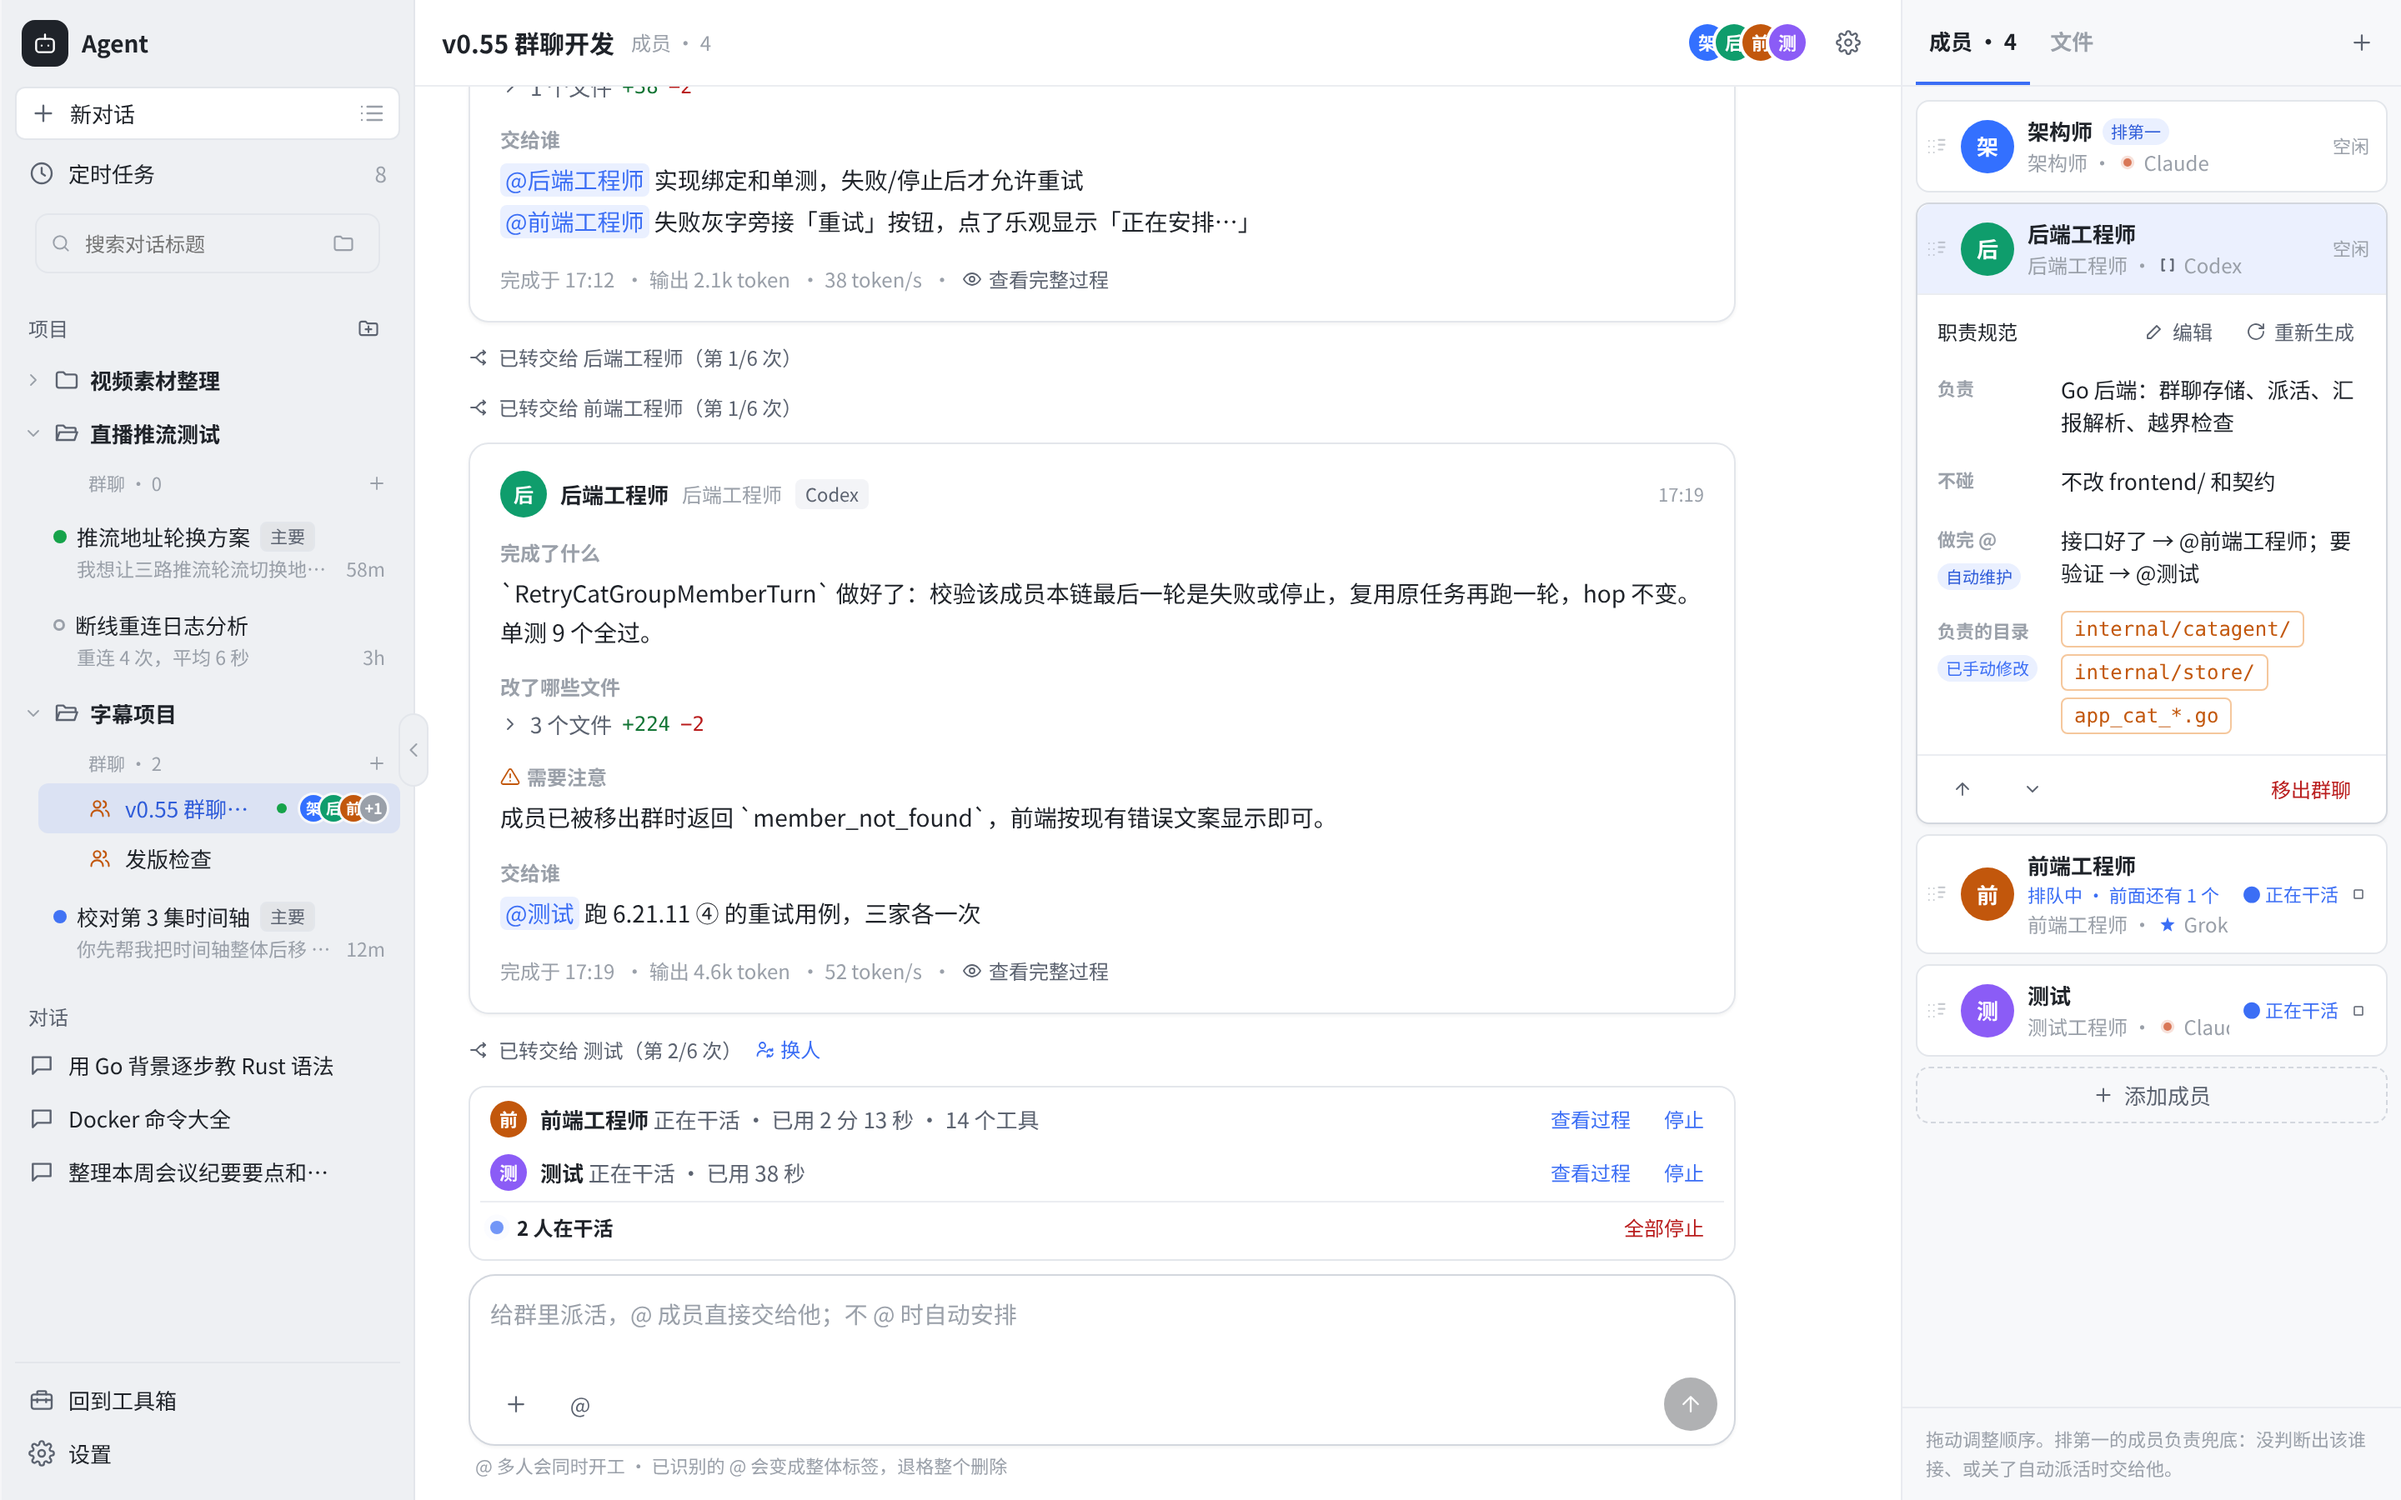
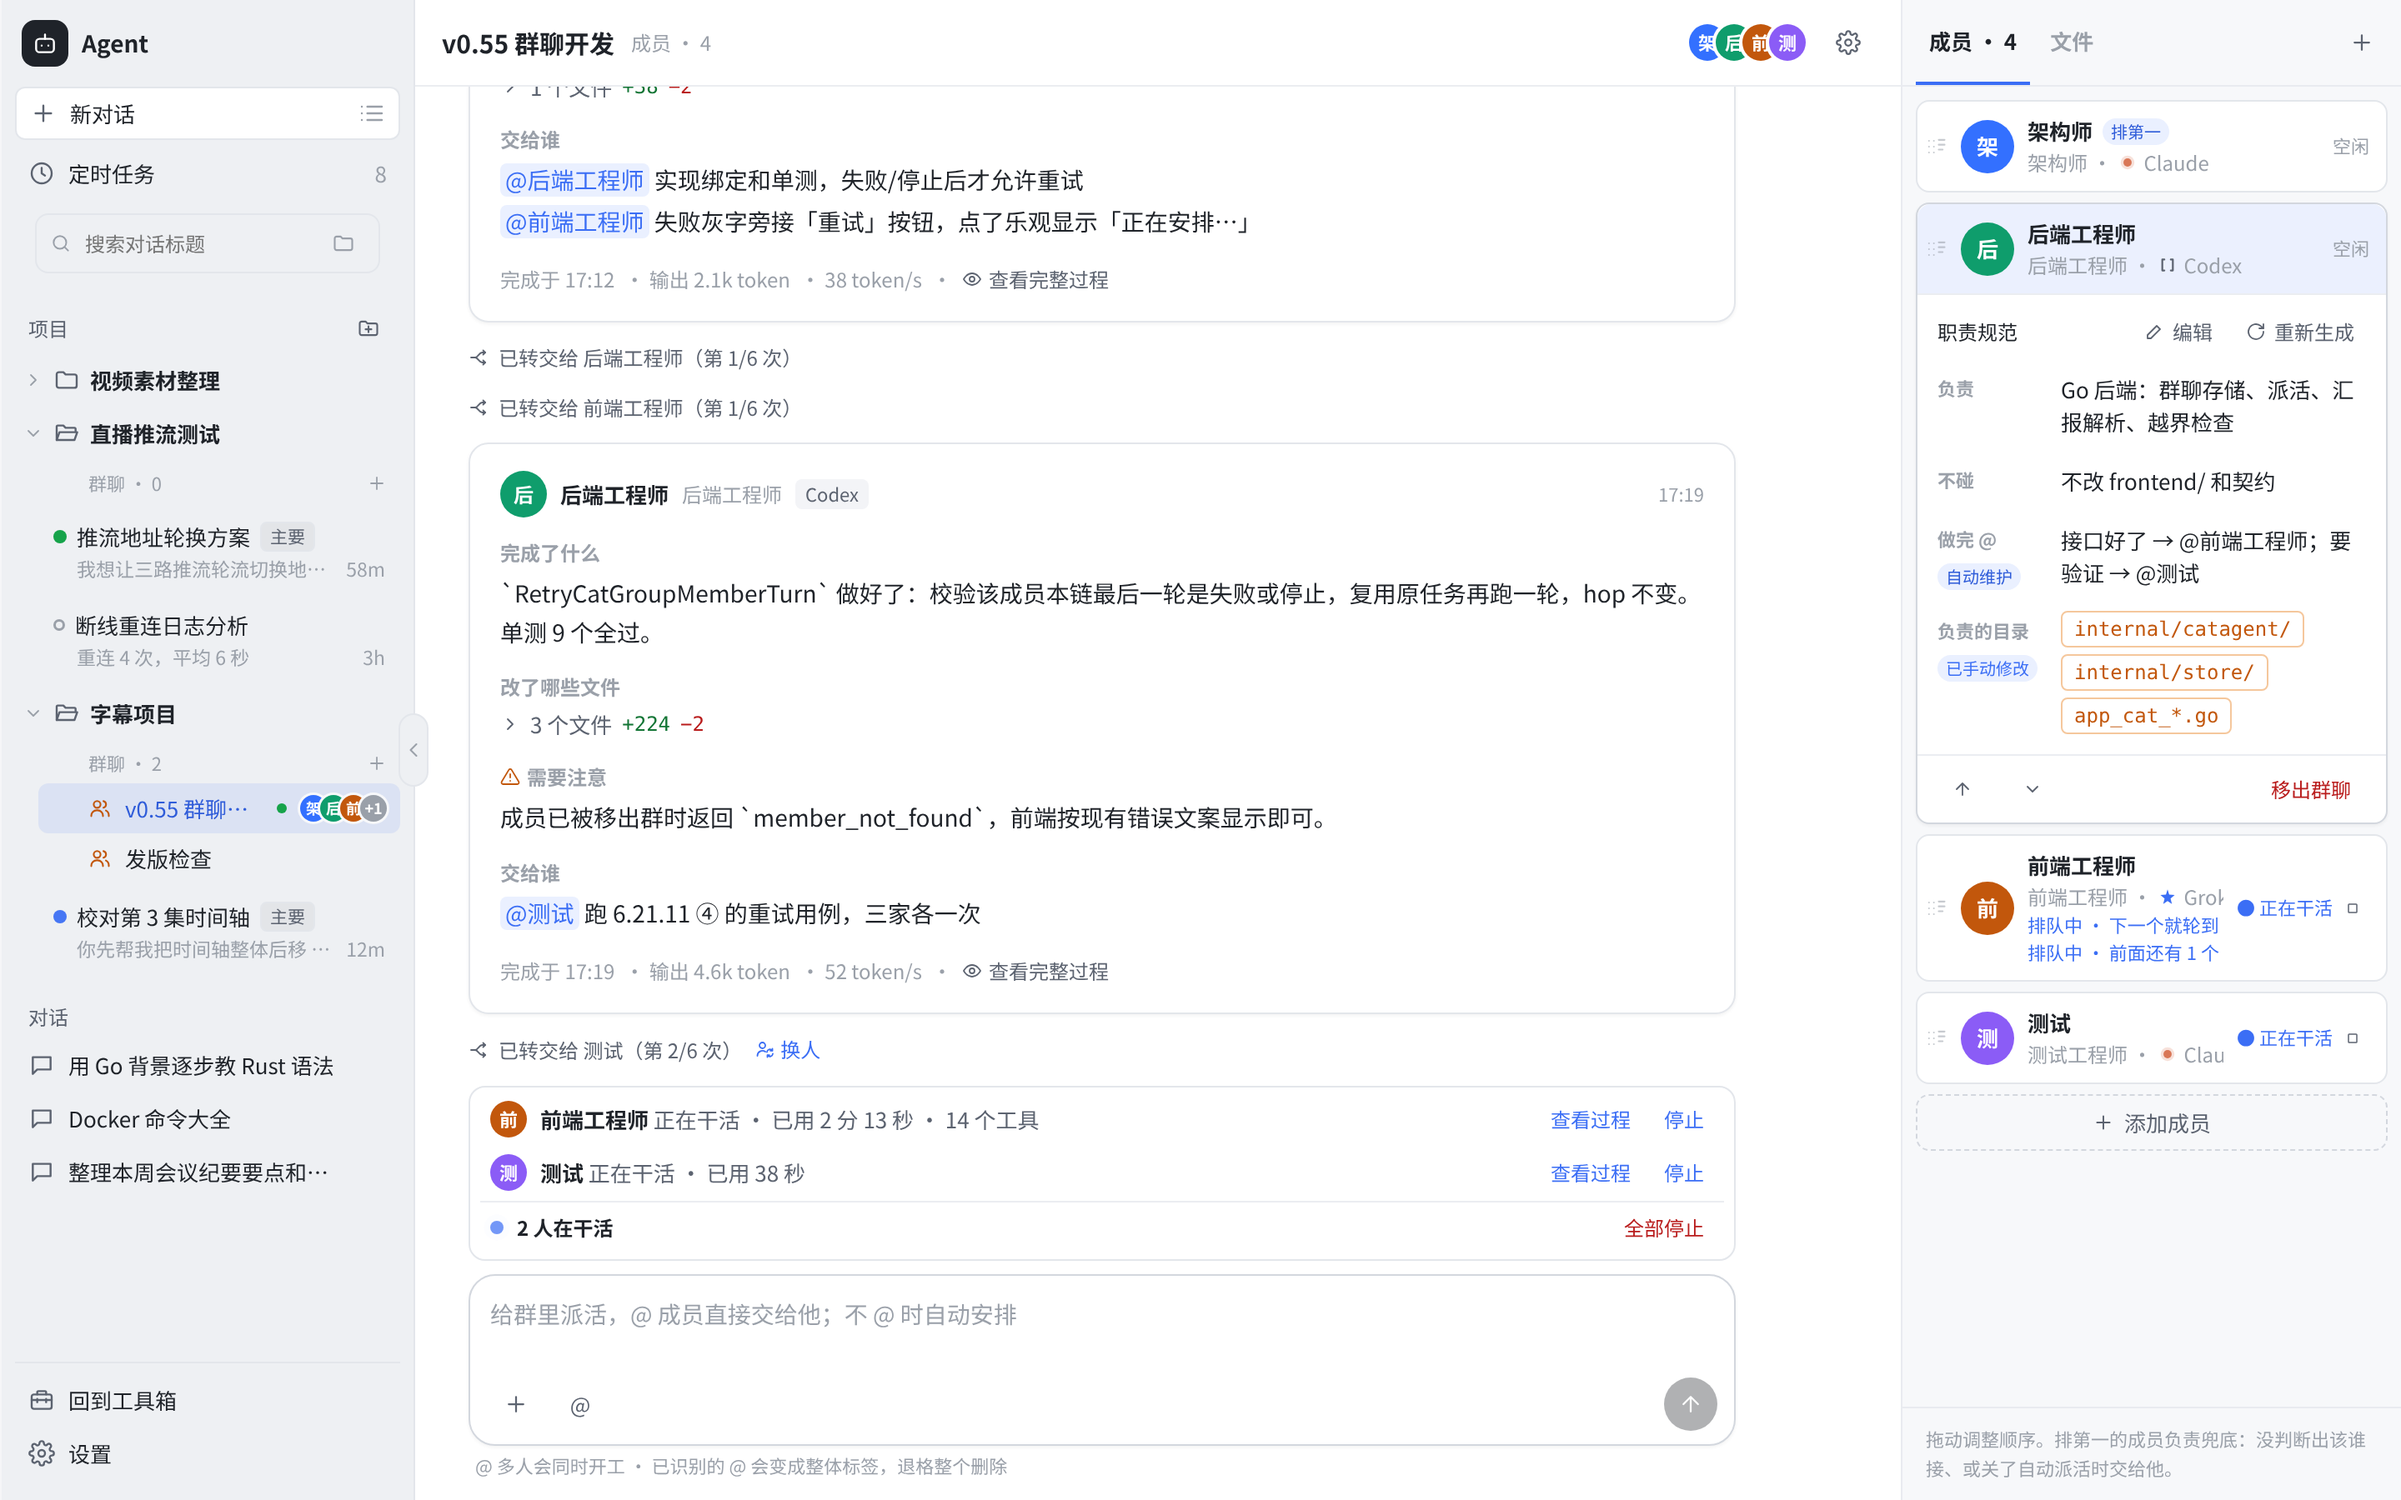
feat(cat-group): queued status from queue[].queuePosition (n=0 下一个就轮到), route.queued gray line, contract v0.55.6; reshoot members/working/dispatch

Changed region(s): [[0.8125, 0.56, 0.9688, 0.7778]]

diff --git a/frontend/src/api/catGroupChatMock.ts b/frontend/src/api/catGroupChatMock.ts
@@ -97,7 +97,7 @@ function mainStream() {
 }
 
 /** 场景界面状态：正在干活的人 [id, elapsedMs, toolCount] 等 */
-export interface SceneUi { running: [string, number, number][]; queued?: Record<string, number>; scroll?: 'top' | 'bottom'; openRoute?: boolean; swapOpen?: boolean; revertDone?: boolean }
+export interface SceneUi { running: [string, number, number][]; /** 成员 id → 排队条数（真实状态：可以同时正在干活 + 排队） */ queued?: Record<string, number>; scroll?: 'top' | 'bottom'; openRoute?: boolean; swapOpen?: boolean; revertDone?: boolean }
 let ui: SceneUi = { running: [] }
 function sceneSeed(s: GroupScene): SceneUi {
   seedBase()
@@ -110,7 +110,7 @@ function sceneSeed(s: GroupScene): SceneUi {
       return { running: s === 'main' || s === 'create' ? [['q', 38_000, 3]] : [] }
     case 'members': case 'working': case 'session': case 'narrow-drawer': case 'narrow-single':
       mainStream()
-      return { running: W, queued: s === 'members' || s === 'working' ? { f: 1 } : undefined }
+      return { running: W, queued: s === 'members' || s === 'working' ? { f: 2 } : undefined }
     case 'report':
       rArch(); route('b', 'c1', 1, 'handoff'); route('f', 'c1', 1, 'handoff'); rBe(); route('q', 'c1', 2, 'handoff')
       rep('q', 2, '17:31', { parsed: false, footer: foot('17:31', 1900, 36),
@@ -131,7 +131,9 @@ function sceneSeed(s: GroupScene): SceneUi {
       user('再改一下，按钮文案用「重试」两个字就行', '17:15', 'c4'); route('a', 'c4', 0, 'followup')
       user('发版前把更新日志整理一下', '17:33', 'c5'); route('a', 'c5', 0, 'fallback')
       user('顺便看下 Windows 打包脚本', '17:36', 'c6'); route('a', 'c6', 0, 'off')
-      return { running: [['a', 65_000, 6]], scroll: 'top', openRoute: true }
+      user('@架构师 顺手把 6.21.17 的排队口径也过一遍', '17:37', 'c7', ['a'])
+      push({ kind: 'system', systemKind: 'route', chainId: 'c7', hop: 0, toMemberId: 'a', route: { mode: 'mention', memberId: 'a', queued: true } })
+      return { running: [['a', 65_000, 6]], openRoute: true }
     case 'swap':
       user('重试按钮点了以后，成员卡片要回到「正在干活」状态', '17:46', 'c8'); route('b', 'c8', 0, 'ai', '涉及成员状态推送')
       sys('reassign', { chainId: 'c8', fromMemberId: 'b', toMemberId: 'f' })
@@ -149,7 +151,7 @@ function sceneSeed(s: GroupScene): SceneUi {
 export const SESSION_DEMO = '先看一下现有的失败灰字组件和群消息流的事件订阅。\n\n[search] systemKind === \'failed\' in frontend/src\n[read] frontend/src/views/cat/GroupStream.vue\n[edit] frontend/src/views/cat/RetryButton.vue  +41\n+ const onRetry = () => RetryCatGroupMemberTurn({ groupId, memberId, chainId })\n[run] npm run typecheck\nvue-tsc --noEmit  ✓ 0 errors\n\n类型检查通过。接下来把中英日文案补上，然后写汇报'
 
 function sceneRunning(): CatGroupMemberEvent[] {
-  return ui.running.map(([id, ms, tools]) => ({ groupId: 'g1', member: members.find((m) => m.id === id)!, running: { turnId: `tr-${id}`, startedAt: T0, toolCount: tools, elapsedMs: ms }, queueLength: ui.queued?.[id] }))
+  return ui.running.map(([id, ms, tools]) => ({ groupId: 'g1', member: members.find((m) => m.id === id)!, running: { turnId: `tr-${id}`, startedAt: T0, toolCount: tools, elapsedMs: ms }, queue: Array.from({ length: ui.queued?.[id] ?? 0 }, (_, i) => ({ chainId: `cq${i}`, hop: 1, fromSeq: 0, queuePosition: i })) }))
 }
 
 const sc = groupScene()

diff --git a/frontend/src/stores/catGroupChat.ts b/frontend/src/stores/catGroupChat.ts
@@ -4,7 +4,7 @@
  */
 import { defineStore } from 'pinia'
 import { computed, reactive, ref } from 'vue'
-import { groupApi, groupRealApi, normalizeMember, normalizeMessage, type CatGroup, type CatGroupMember, type CatGroupMessage, type CatGroupRunning, type CatRouteDetail, type RevertResult } from '@/api/catGroupChat'
+import { groupApi, groupRealApi, normalizeMember, normalizeMessage, type CatGroup, type CatGroupMember, type CatGroupMessage, type CatGroupQueuedTask, type CatGroupRunning, type CatRouteDetail, type RevertResult } from '@/api/catGroupChat'
 import { groupMock, groupScene } from '@/api/catGroupChatMock'
 import { onEvent } from '@/services/wails'
 
@@ -24,8 +24,8 @@ export const useCatGroupChat = defineStore('catGroupChat', () => {
   const processText = reactive<Record<string, string>>({})
   /** 本次会话里已撤销越界改动的汇报 seq（成员栏「越界待处理」用） */
   const revertedSeqs = reactive<number[]>([])
-  /** 成员排队长度（契约 v0.55.6：cat:group-member.queueLength） */
-  const queued = reactive<Record<string, number>>({})
+  /** 成员排队任务（契约 v0.55.6 6.21.17 ④：cat:group-member.queue[]） */
+  const queued = reactive<Record<string, CatGroupQueuedTask[]>>({})
   const settingsOpen = ref(false)
   const membersOpen = ref(false)
   const scene = groupScene()
@@ -79,7 +79,8 @@ export const useCatGroupChat = defineStore('catGroupChat', () => {
       else upsertMember(normalizeMember(e.member))
       if (e.running) live[e.member.id] = { ...e.running, receivedAt: Date.now() }
       else delete live[e.member.id]
-      if (e.queueLength && e.queueLength > 0) queued[e.member.id] = e.queueLength
+      const q = e.queue ?? e.member.queue ?? []
+      if (q.length) queued[e.member.id] = q
       else delete queued[e.member.id]
     })
     // 「查看过程」：成员自己的会话流（convId=group:<g>:<m>），抽屉里只做文字预览
@@ -116,7 +117,7 @@ export const useCatGroupChat = defineStore('catGroupChat', () => {
       hasMore.value = page.hasMore
       if (!groupRealApi()) for (const e of groupMock.sceneRunning()) {
         if (e.running) live[e.member.id] = { ...e.running, receivedAt: Date.now() }
-        if (e.queueLength) queued[e.member.id] = e.queueLength
+        if (e.queue?.length) queued[e.member.id] = e.queue
       }
     } finally {
       loading.value = false

diff --git a/frontend/src/api/catGroupChat.ts b/frontend/src/api/catGroupChat.ts
@@ -38,6 +38,9 @@ export interface CatGroupMember {
   thinkLevelId?: string
   order: number
   charter: CatCharter
+  /** v0.55.6：运行时只读，不落库 */
+  status?: string
+  queue?: CatGroupQueuedTask[]
 }
 export interface CatGroupFileTag {
   path: string
@@ -65,6 +68,8 @@ export interface CatRouteInfo {
   memberId?: string
   reason?: string
   routeSeq?: number
+  /** v0.55.6 6.21.17 ④-5：成员正在干活，这条进了他的队列 */
+  queued?: boolean
 }
 export interface CatGroupMessage {
   seq: number
@@ -90,13 +95,22 @@ export interface CatGroupRunning {
   toolCount: number
   elapsedMs: number
 }
+/** v0.55.6 6.21.17 ④-3：成员内存 FIFO 里的一条排队任务 */
+export interface CatGroupQueuedTask {
+  chainId: string
+  hop: number
+  fromSeq: number
+  /** 排在它前面的排队任务数，从 0 起（不含正在跑的那一轮） */
+  queuePosition: number
+}
 export interface CatGroupMemberEvent {
   groupId: string
   member: CatGroupMember
   running?: CatGroupRunning
-  /** v0.55.6 6.21.17：status=queued 时带排队长度（前面还有几个） */
+  /** v0.55.6 6.21.17 ④：idle | running | queued */
   status?: string
-  queueLength?: number
+  /** 排队中的任务（按队列顺序，空队列为空数组） */
+  queue?: CatGroupQueuedTask[]
   removed?: boolean
 }
 export interface CatGroupRouteEvent {
@@ -180,6 +194,7 @@ export function systemLineText(m: CatGroupMessage, nameOf: (id?: string) => stri
   const to = nameOf(m.toMemberId || m.route?.memberId || m.memberId)
   switch (m.systemKind) {
     case 'route': {
+      if (m.route?.queued) return k('routeQueued', { name: to })
       const r = m.route
       if (r && m.hop > 0 && (r.mode === 'handoff' || r.mode === 'mention') && !r.reason) return k('handedOff', { name: to, n: m.hop })
       if (r?.mode === 'named' || r?.mode === 'reassign') return k('routeTo', { name: to, reason: k('routeNamed') })

diff --git a/frontend/src/components/cat/group/CatGroupMembers.vue b/frontend/src/components/cat/group/CatGroupMembers.vue
@@ -31,8 +31,8 @@
               <span v-if="m.charter.status === 'generating'" class="cg-spin" style="width: 10px; height: 10px; border-width: 1.5px" :title="t('cat.groupChat.generating')" />
               <span v-else-if="m.charter.status === 'failed'" :title="t('cat.groupChat.charterFailed')" style="display: inline-flex; color: var(--cat-warn-text)"><FIcon name="warn" :size="11" /></span>
             </span>
-            <span v-if="store.queued[m.id]" class="q">{{ t('cat.groupChat.queued', { n: store.queued[m.id] }) }}</span>
             <span class="b">{{ m.title }} · <CatAgentMark :kind="normalizeProviderKind(m.agentKind)" :size="11" />{{ cliName(m.agentKind) }}</span>
+            <span v-for="q in store.queued[m.id] ?? []" :key="q.chainId + q.queuePosition" class="q">{{ queuedText(q.queuePosition) }}</span>
           </span>
           <span class="cg-st" :class="stateOf(m.id)">
             <template v-if="stateOf(m.id) === 'busy'">● {{ t('cat.groupChat.busy') }}<button type="button" class="cg-ib sm" :aria-label="t('cat.groupChat.stop')" @click.stop="store.stop(m.id)"><FIcon name="stop" :size="10" /></button></template>
@@ -97,6 +97,8 @@ const toggle = (id: string) => {
 const tab = ref<'m' | 'f'>('m')
 const CLI: Record<string, string> = { claude_cli: 'Claude', codex_cli: 'Codex', cat_build: 'Grok Build', gemini_cli: 'Gemini' }
 const cliName = (k: string) => CLI[k] ?? k
+/** 排队文案：n=0 与 n≥1 用两个 key，产品改口径时只换 key（6.21.17 ④-4） */
+const queuedText = (n: number) => (n === 0 ? t('cat.groupChat.queuedNext') : t('cat.groupChat.queued', { n }))
 function stateOf(id: string) {
   if (store.live[id]) return 'busy'
   const last = [...store.messages].reverse().find((x) => x.memberId === id)

diff --git a/frontend/src/components/cat/group/catGroup.css b/frontend/src/components/cat/group/catGroup.css
@@ -362,3 +362,5 @@
 .cg-files.rows .p { flex: 1; min-width: 0; }
 .cg-files.rows .nums { margin-left: auto; display: inline-flex; gap: 6px; flex: none; }
 .cg-mc-row .nm .q { display: block; font-size: 11px; color: var(--cat-accent); }
+.cg-mc-row .nm .q { white-space: normal; overflow: visible; }
+.cg-st.busy { max-width: none; }
